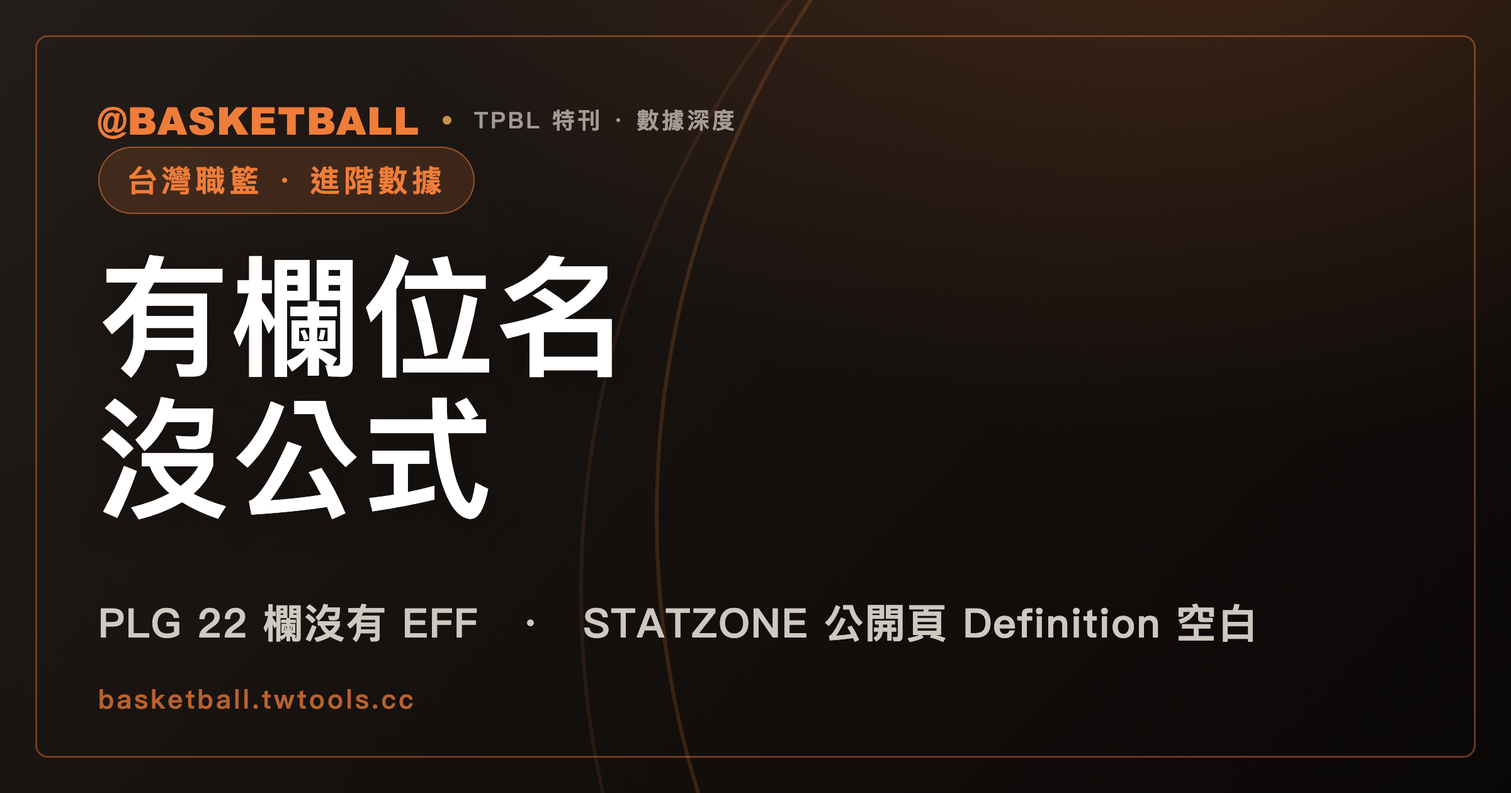
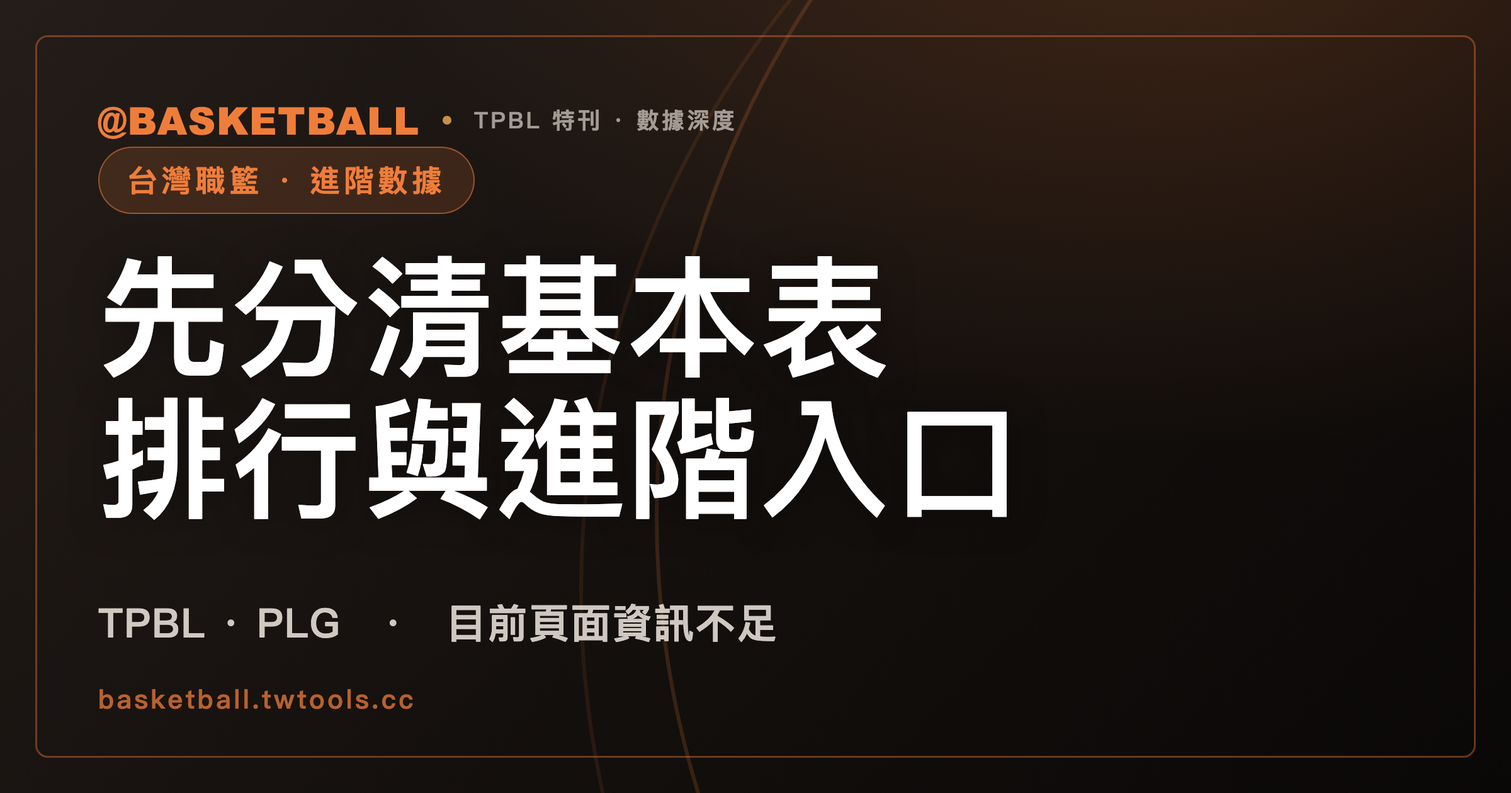
Rewrite Taiwan basketball data and Asian Games guides

Changed region(s): [[0.0625, 0.3095, 0.6875, 0.65], [0.0625, 0.7429, 0.8438, 0.8048]]

diff --git a/scripts/gen-basketball-cover.py b/scripts/gen-basketball-cover.py
@@ -59,8 +59,8 @@ COVERS = [
      "詹姆斯<br>加盟 76 人",
      "第 24 個賽季 · 第 4 支球隊　·　23 季官方數據拆解"),
     ("taiwan-asian-games-2026-basketball", "名古屋亞運 · 台灣男籃",
-     "比開幕式<br>早 9 天開打",
-     "B 組對約旦 · 伊朗 · 卡達　·　12 人名單 · 連兩屆第 4"),
+     "小組 2 勝 1 敗<br>八強止步日本",
+     "名單有傷退遞補　·　賽後回顧"),
     ("tpbl-plg-rules-compared", "台灣職籃 · 規則逐條對照",
      "身分分 2 種<br>還是 4 種",
      "TPBL 對 PLG　·　註冊 · 上場 · 薪資 · 選秀 · 交易"),
@@ -142,8 +142,8 @@ COVERS = [
      "甲乙級<br>只能選一邊",
      "資格賽未晉級　·　當學年不能改報乙級"),
     ("tpbl-plg-stats-glossary-basics", "台灣職籃 · 進階數據",
-     "有欄位名<br>沒公式",
-     "PLG 22 欄沒有 EFF　·　STATZONE 公開頁 Definition 空白"),
+     "先分清基本表<br>排行與進階入口",
+     "TPBL · PLG　·　目前頁面資訊不足"),
     ("waiver-buyout-basics", "NBA · 棄約與買斷",
      "CBA 全文<br>查不到 buyout",
      "認領順序看戰績墊底　·　不是先搶先贏"),

diff --git a/articles/taiwan-asian-games-2026-basketball/index.md b/articles/taiwan-asian-games-2026-basketball/index.md
@@ -6,179 +6,84 @@ topic_ref: "manual"
 topic2: tw-pro
 type: "feature"
 date: "2026-08-10"
-title: "台灣男籃 9 月 10 日開打，比亞運開幕式早 9 天：2026 名古屋亞運前瞻"
-subtitle: "台灣與伊朗、約旦、卡達同在 B 組，首戰約旦，12 人名單由陳盈駿、林庭謙、劉錚與高柏鎧等人組成"
-lede: "截至 2026 年 8 月 10 日，台灣男籃已確定在名古屋亞運 B 組迎戰約旦、伊朗與卡達。首戰是 9 月 10 日台灣時間中午 12 時，比開幕式早 9 天。運動部公布的 12 人名單由陳盈駿、林庭謙、劉錚與高柏鎧等人組成。"
+title: "小組 2 勝 1 敗進八強、八強止步日本：2026 名古屋亞運台灣男籃回顧"
+subtitle: "從 9 月 10 日開打的 B 組賽程，到最終名單傷兵異動與 8 強對日本的淘汰戰，整理這次賽會已經發生的結果。"
+lede: "2026 愛知・名古屋亞運男子 5 對 5 籃球，台灣在 B 組先後對約旦、伊朗與卡達取得 2 勝 1 敗，晉級八強；大會其後確認八強對手為日本，台灣最終止步八強。原先的賽前前瞻已過時，本文改以實際賽程、最終名單異動與已完成的比賽結果為主。"
 ---
 
-# 台灣男籃 9 月 10 日開打，比亞運開幕式早 9 天：2026 名古屋亞運前瞻
+# 小組 2 勝 1 敗進八強、八強止步日本：2026 名古屋亞運台灣男籃回顧
 
-**名古屋亞運 · 台灣男籃｜B 組賽程 · 12 人名單｜亞洲盃第 5 · 連兩屆第 4**
+**名古屋亞運・台灣男籃｜賽後整理**
 
-中華代表團最早出賽的，不是田徑，也不是游泳。
+這不是一篇賽前前瞻。2026 名古屋亞運男子 5 對 5 籃球已在 9 月結束，台灣男籃從 B 組出發，先以 2 勝 1 敗晉級八強，再於八強賽遭日本淘汰。原稿中的「即將開打」「12 人名單已定」與賽前推估，都不再適合留在已完成賽事的文章裡。
 
-是男籃。
+本文只整理可回頭核對的比賽路徑：大會公布的分組與賽程、最終名單的傷兵遞補、分組階段的比分，以及八強對手。不替已結束的賽事補上未由本文來源確認的球員評價或最終總排名。
 
-2026 年愛知・名古屋亞運在 9 月 19 日開幕。台灣男籃卻要在 9 月 10 日就上場。球隊打完 B 組全部 3 場比賽時，開幕式還要再等 6 天。
+## 男籃在開幕式前開打：B 組 3 場比賽排在 4 天內
 
-男籃也是整屆賽會最早開賽的項目。比開幕式早 9 天，不只是行事曆上的特殊安排。這代表台灣代表團的第一個比賽結果，會從籃球場出現。
+愛知・名古屋亞運的男子 5 對 5 籃球先於 9 月 10 日開賽。大會公布的分組中，台灣與伊朗、約旦、卡達同在 B 組；台灣的分組賽依序是 9 月 10 日對約旦、9 月 12 日對伊朗、9 月 13 日對卡達。
 
-首戰對手是上屆銀牌約旦。第 2 場碰到 2025 年亞洲盃淘汰台灣的伊朗。第 3 場則是卡達。3 場比賽全排在 4 天之內。
+這個時間表有一個容易被忽略的地方：男子籃球分組賽在 9 月 19 日開幕典禮之前已經展開。對球隊而言，這表示備戰與淘汰賽判斷不必等到典禮後才開始；對讀者而言，則應避免把「亞運開幕」誤當成所有項目共同的開賽日。
 
-賽程很早。比賽很密。12 人名單則已經先定下來。
+| 階段 | 日期 | 對手 | 結果 |
+|---|---:|---|---|
+| B 組 | 9 月 10 日 | 約旦 | 83：80 勝 |
+| B 組 | 9 月 12 日 | 伊朗 | 69：72 負 |
+| B 組 | 9 月 13 日 | 卡達 | 91：69 勝 |
 
-## 台灣男籃在開幕式前 9 天打響全賽會第一戰
+台灣以 2 勝 1 敗完成分組賽並晉級八強，也讓原本「小組賽打完會遇到誰」的賽前問題有了明確答案。不同來源對 B 組名次排序的呈現不一致，本文不把次級媒體的排序當成大會最終排名依據。
 
-第 20 屆亞洲運動會由日本愛知縣與名古屋市主辦，正式會期是 2026 年 9 月 19 日到 10 月 4 日。賽會共有 43 種運動、71 個分項與 469 個小項。
+## 大會確認八強對手是日本，台灣止步八強
 
-這屆賽會的正式英文名稱是「20th Asian Games Aichi-Nagoya 2026」。從 9 月 19 日開幕到 10 月 4 日閉幕，共有 16 天。男籃的起點卻不在這 16 天裡，而是在正式會期之前。
+9 月 14 日，大會公布男子籃球最終階段對戰表，將「Chinese Taipei」與日本排在 9 月 16 日的 QF2。這份公告同時列出 B 組前 3 名為伊朗、約旦、台灣，反映了大會在淘汰賽對戰表定案時採用的分組排序。
 
-5 人制男籃不等開幕。男子賽事從 9 月 10 日打到 9 月 20 日，場地是名古屋市北區的愛知國際競技場，也就是冠名後的 IG Arena。女子賽事則從 9 月 17 日打到 9 月 26 日。
+台灣在八強賽不敵日本，賽事到此結束。對本篇而言，最重要的不是把賽前期待改寫成事後評語，而是把賽程上的兩件事分開：小組 2 勝 1 敗確實完成晉級；八強賽失利則使球隊未進四強。這兩句都可由已完成的賽程與淘汰賽對戰脈絡核對。
 
-台灣男籃 9 月 10 日中午 12 時出賽。自由體育 8 月 8 日的報導指出，男籃預賽是所有項目最早開始的比賽。時間表因此出現少見的畫面：男籃小組賽已經打完，亞運才準備舉行開幕式。
+由於大會公開結果平台採用動態頁面，本文不自行推導未在此處逐項核對的最終名次或全隊進階統計。需要逐場技術統計時，應回到[大會結果平台](https://results.asiangames2026.org/)查詢，而不是以賽前名單或分組排名代替。
 
-本文時間全部採台灣時間。日本時間比台灣快 1 小時。也就是說，台灣中午 12 時開打的比賽，在日本當地是下午 1 時。
+## 名單在開賽前仍有異動：劉錚、阿巴西退出，陳冠全、譚傑龍遞補
 
-## 台灣在 B 組的 3 場比賽集中於 4 天內完成
+賽前公布的 12 人名單不是最終版本。中華民國籃球協會在 9 月 2 日公布，劉錚與阿巴西因傷退出，由陳冠全、譚傑龍遞補。這也是舊稿必須重寫的原因：把 7 月名單直接當成實際出賽陣容，會漏掉兩名遞補球員，也會錯把兩名傷退球員留在最終名單。
 
-台灣與約旦、伊朗、卡達同在 B 組。3 場小組賽集中在 9 月 10 日到 9 月 13 日之間，中間只有 9 月 11 日沒有比賽。
+依當時公布內容，球隊由總教練圖齊（Gianluca Tucci）領軍，名單包含陳盈駿、林庭謙、游艾喆、高柏鎧、馬建豪、雷蒙恩、胡瓏貿、盧峻翔、曾祥鈞、李家慷，以及遞補的陳冠全與譚傑龍。
 
-| 場次 | 對手 | 日期 | 台灣時間 |
-|---|---|---|---|
-| 第 1 場 | 約旦 | 9 月 10 日（四） | 12：00 |
-| 第 2 場 | 伊朗 | 9 月 12 日 | 09：00 |
-| 第 3 場 | 卡達 | 9 月 13 日 | 12：00 |
+名單異動也提醒了一個寫賽事前瞻的基本原則：官方先公布的培訓或選拔名單，不等於最終報名名單；即使接近開賽，傷勢與遞補仍可能改變實際陣容。賽後回顧應以最後一次正式公告為準，不能只保留最早一版。
 
-男籃共 12 隊分 3 組。A 組是日本、南韓、沙烏地阿拉伯、印尼；C 組是中國、菲律賓、巴林、哈薩克。小組賽後的晉級規則還沒有見到官方明文，台灣打完 3 場之後會遇到誰，現在還排不出來。
+## 讀這屆結果時，別把不同階段混成一句話
 
-賽程本身已經足夠具體。台灣先打上屆亞運銀牌約旦。休兵 1 天後，早上 9 時迎戰伊朗。再隔不到 1 天，對卡達完成小組賽。
+分組賽、八強賽與最終名次是不同層次的資訊。以這屆台灣男籃為例：
 
-3 個對手的 2026 亞運名單，截至 8 月 10 日都未見報導。哪一隊會帶最強陣容，現在沒有答案。已經發生的是：約旦的上屆銀牌、伊朗對台灣的 3 分勝差、卡達的亞洲盃名次。
+| 問題 | 可以確認的回答 | 不能從中直接推出的事 |
+|---|---|---|
+| 分組賽打得如何？ | B 組 2 勝 1 敗、晉級八強 | 整屆賽會的最終名次與未交叉核對的分組排序 |
+| 是否進八強？ | 是，八強對日本 | 是否等同突破歷屆最佳成績 |
+| 八強賽結果？ | 不敵日本、未進四強 | 單靠比分判定所有戰術或球員責任 |
+| 最後名單是否和 7 月公告相同？ | 不同，有 2 人傷退、2 人遞補 | 傷退者的狀況可由本文推論到其他賽事 |
 
-## 約旦上屆摘銀，伊朗在 2025 年亞洲盃淘汰台灣
-
-約旦在 2023 年杭州亞運首度打進男籃決賽，最後以 60：70 不敵菲律賓，拿到銀牌。當屆約旦陣容有具 NBA 資歷的霍林斯傑佛森，也有 3 名身高 210 公分以上的長人。到了 2025 年亞洲盃，約旦排名第 11。
-
-台灣對約旦還有更近的亞運記憶。2023 年四強戰，台灣守不住約旦的歸化球員，輸球後落入銅牌戰。名古屋的第一場，不是面對一個只存在於歷史名次裡的對手，而是再次碰上上屆擋住台灣進決賽的球隊。
-
-伊朗帶來另一種近期壓力。2025 年亞洲盃八強，台灣上半場一度領先 21 分，最終仍以 75：78 遭逆轉。伊朗靠這場勝利晉級四強。名古屋小組賽的第 2 場，就是兩隊在那場 3 分差比賽後的下一個已知大賽交手。
-
-卡達在 2025 年亞洲盃排名第 13，台灣是第 5。同一屆賽事裡，台灣的名次在 3 個小組對手中排在約旦與卡達之前。
-
-3 場對手因此各有一個已知座標。約旦代表上屆亞運的淘汰經驗。伊朗代表最近一屆亞洲盃的逆轉。卡達則有同一屆亞洲盃的名次可供對照。這些座標足以說明小組賽不缺壓力，卻不足以替 4 天內的 3 場比賽預寫結局。
-
-## 運動部公布的 12 人名單從 18 人培訓陣容縮減而來
-
-運動部在 7 月 14 日公布男籃 12 人名單。總教練是義大利籍的圖齊（Gianluca Tucci），教練團成員還有盧譽誠（教練）、黃冠為（體能教練）與柯煥為（隊職員）。
-
-| 名單 | 球員 |
-|---|---|
-| 1 | 陳盈駿 |
-| 2 | 林庭謙 |
-| 3 | 游艾喆 |
-| 4 | 劉錚 |
-| 5 | 阿巴西 |
-| 6 | 盧峻翔 |
-| 7 | 李家慷 |
-| 8 | 雷蒙恩 |
-| 9 | 馬建豪 |
-| 10 | 胡瓏貿 |
-| 11 | 高柏鎧（Brandon Gilbeck） |
-| 12 | 曾祥鈞 |
-
-| 教練團職務 | 姓名 |
-|---|---|
-| 總教練 | 圖齊（Gianluca Tucci） |
-| 教練 | 盧譽誠 |
-| 體能教練 | 黃冠為 |
-| 隊職員 | 柯煥為 |
-
-6 月中旬公布的培訓名單原有 18 人。高錦瑋、陳冠全、周桂羽、譚傑龍、宋昕澔與歸化球員阿提諾沒有進入最後 12 人。兩名歸化球員候選，最後留下高柏鎧。
-
-高柏鎧是 213 公分中鋒，效力 TPBL 福爾摩沙夢想家。他在 2024 年下半年完成歸化，11 月獲 FIBA 認可代表台灣參加國際賽，並在同月對香港的亞洲盃資格賽完成國家隊首秀。媒體報導稱他為台灣隊史第 4 位歸化球員。
-
-高柏鎧的中文名在 2024 年 7 月啟動歸化時公布，「鎧」字寄託的是成為中華隊鎧甲的期待。
-
-圖齊從 2024 年 11 月亞洲盃資格賽一路帶隊，經過 2025 年亞洲盃，再走到 2026 年亞運。這份 12 人名單因此不是換了教練後重新開始，而是延續最近一段國家隊賽程的人員選擇。
-
-截至 2026 年 8 月 10 日，12 人裡沒有任何傷停報導；名單到開賽前仍可能因傷調整。
-
-林庭謙與劉錚近期的球員動向，集中整理於〈[領航猿選了吳志鍇，他卻加盟戰神：2026 台灣職籃休賽季異動總表](/articles/taiwan-hoops-2026-offseason-moves/)〉。兩人都在 2026 年的 12 人名單裡，也都打過 2023 年杭州亞運銅牌戰。
-
-## 台灣帶著 2025 年亞洲盃第 5 名進入名古屋
-
-2025 年 FIBA 亞洲盃，台灣在小組賽先以 95：87 擊敗菲律賓，再以 87：60 擊敗伊拉克。對伊拉克一戰，全隊三分球 37 投 15 中。台灣睽違 12 年重返亞洲盃 8 強。
-
-八強戰對伊朗，台灣上半場曾領先 21 分。終場卻是 75：78。3 分差讓台灣止步八強，最後排名第 5。這是台灣自 2013 年亞錦賽第 4 名後的最佳成績。
-
-第 5 名提供的是現況基礎，不是亞運保證。台灣在亞洲盃贏過菲律賓與伊拉克，也曾把伊朗逼到最後 3 分。另一方面，B 組首戰約旦在同屆亞洲盃排名第 11，卡達排名第 13。
-
-對伊朗那一場，從領先 21 分到輸 3 分，留下的提醒很具體：一段優勢不等於最後結果。名古屋的 B 組，兩隊會再碰一次。
-
-國家隊名單之外，台灣兩個職籃聯盟的並立背景可讀〈[為什麼台灣有兩個職籃聯盟？](/articles/taiwan-hoops-two-leagues/)〉。TPBL 與 P. LEAGUE+ 的制度逐項比較，另見〈[TPBL 把球員分成 2 種身分，P. LEAGUE+ 分成 4 種](/articles/tpbl-plg-rules-compared/)〉。
-
-## 亞運不保證各國都派出最強陣容
-
-亞運籃球有一個容易被忽略的前提：參賽國可以派職業球員，但各國不一定能帶來所有最強人選。
-
-依 NBA 在 2018 年的公開說明，它與 FIBA 的協議允許 NBA 球員參加奧運、FIBA 世界盃、洲際盃，以及這些賽事的資格賽。亞運不在協議涵蓋範圍內。限制的核心是 NBA 是否放行球員，不是亞運禁止職業球員參賽。
-
-2018 年亞運已經出現過具體案例。NBA 起初不放行球員，後來在美國時間 8 月 14 日給出一次性特例，讓菲律賓 1 名、中國 2 名 NBA 球員參賽。一次性特例的存在，也說明亞運不在一般協議的固定範圍內。
-
-亞運場上可以有職業球員，日本 2026 年公布的男子 5 人制名單，12 人中 11 人來自職業聯賽。卡住的只有一件事：NBA 放不放人。
-
-2023 年杭州亞運，菲律賓帶著媒體所稱「集訓 12 天」的陣容出賽。隊上沒有世界盃的歸化主力克拉克森（Jordan Clarkson），但仍有法哈多（June Mar Fajardo）、湯普森（Scottie Thompson）等 4 名世界盃成員。這支陣容最後在決賽擊敗約旦，菲律賓自 1962 年後再度奪金，拿下隊史第 5 冠。歸化球員布朗里（Justin Brownlee）場均得到約 24 分。
-
-自由體育 2023 年報導將日本陣容稱為年輕陣，12 人只有 1 人打過當年的世界盃。到了 2026 年，日本籃協公布的男籃陣容 12 人中 11 人來自職業聯賽，平均年齡約 25 歲。中國媒體稱日本男女籃派「二隊」參加亞運；日本籃協的公告裡只有名單與年齡，「二隊」這兩個字是媒體加上去的。
-
-這些前例把亞運的競爭結構說得很清楚。世界盃名單、亞洲盃名次與亞運名單，不能直接畫上等號。陣容準備時間短，不代表一定失去競爭力。帶來年輕陣容，也不等於自動退出獎牌競爭。
-
-對台灣而言，機會與風險來自同一個地方：對手可能不是最強陣容，也可能是。伊朗、約旦與卡達會帶誰來，8 月中旬還沒有答案。
-
-## 台灣在 2018 年與 2023 年連續兩屆拿到第 4 名
-
-台灣男籃最近兩屆亞運都停在第 4 名。
-
-2018 年雅加達亞運，台灣排名第 4。2023 年杭州亞運，台灣又一次進入四強。四強賽輸給約旦後，銅牌戰以 73：101 不敵中國。
-
-杭州銅牌戰的比分沒有完整呈現比賽轉折。台灣上半場以 49：46 領先。第 3 節卻被中國打出 19：2 的攻勢，局面就此改變。林庭謙得到 20 分，劉錚得到 14 分。兩人都在 2026 年名古屋亞運 12 人名單內。
-
-同一份名單裡的延續不只在兩個名字。2026 年的總教練圖齊已經帶隊打過 2025 年亞洲盃，12 人陣容也從 18 人培訓名單縮減完成。名古屋的問題不是台灣能不能第一次摸到四強門口，而是能不能把最近兩屆都到過的位置，往獎牌台再推進一步。
-
-這也讓 B 組首戰更有歷史重量。約旦不只是上屆銀牌，也是 2023 年四強戰擊敗台灣的球隊。台灣要先從同一個對手開始，再決定能不能走到不同的位置。
-
-## 台灣 3x3 男籃帶著杭州金牌前往名古屋衛冕
-
-5 人制男籃連兩屆第 4，台灣籃球目前握有的亞運金牌來自 3x3 男籃。
-
-台灣在杭州亞運拿下 3x3 男子組金牌。名古屋亞運由葉惟捷、張俊生、徐堂琪與鄒子羲出賽，目標是衛冕。3x3 賽事從 9 月 21 日打到 9 月 25 日，場地設在名古屋金城埠頭站前特設球場。
-
-中華女籃 12 人名單也已公布，由彭詩晴領軍，總教練是前田顯藏。女籃分在 C 組，將依序在 9 月 18 日對蒙古、9 月 21 日對馬來西亞、9 月 22 日對南韓。女子 3x3 則由張聿敏、游沁樺、蔡佑蓮與陳薇涵參賽。
-
-男籃是中華代表團最早登場的項目。3x3 男籃則帶著上屆金牌壓軸接棒。從 9 月 10 日到 9 月 25 日，台灣籃球會在開幕式之前先開始，也會在開幕式之後繼續守住另一條衛冕路線。
+把這些句子拆開，能避免「打進八強」被誤讀成「最終第八」，也能避免把賽前名單誤稱為最後陣容。這是整理已結束賽會最容易出現、也最容易避免的兩種錯誤。
 
 ## 常見問題
 
-### 台灣男籃在 2026 名古屋亞運什麼時候出賽？
+### 2026 名古屋亞運台灣男籃在分組賽的成績是什麼？
 
-台灣男籃在 9 月 10 日、9 月 12 日與 9 月 13 日進行 B 組小組賽。3 場均為台灣時間，依序是 9 月 10 日 12：00 對約旦、9 月 12 日 09：00 對伊朗、9 月 13 日 12：00 對卡達。日本時間比台灣快 1 小時。
+台灣在 B 組對約旦、伊朗、卡達取得 2 勝 1 敗：83：80 勝約旦、69：72 負伊朗、91：69 勝卡達，並晉級八強。本文不把未與大會結果頁逐項交叉核對的媒體分組排序，寫成最終官方名次。
 
-### 為什麼台灣男籃比亞運開幕式更早出賽？
+### 台灣男籃八強賽的對手是誰？
 
-2026 名古屋亞運開幕式在 9 月 19 日，5 人制男籃賽事則從 9 月 10 日開始。男籃是整屆賽會最早開賽的項目，因此台灣代表團會先由男籃出賽，比開幕式早 9 天。
+大會 9 月 14 日公布的男子籃球最終階段對戰表，安排台灣在 9 月 16 日的 QF2 對日本。台灣該戰失利，未能晉級四強。
 
-### 台灣男籃的 12 人名單有哪些球員？
+### 為什麼本文的名單和 7 月公告不同？
 
-12 人是陳盈駿、林庭謙、游艾喆、劉錚、阿巴西、盧峻翔、李家慷、雷蒙恩、馬建豪、胡瓏貿、高柏鎧（Brandon Gilbeck）與曾祥鈞。總教練為圖齊（Gianluca Tucci），教練團成員還有盧譽誠、黃冠為與柯煥為。
+因為劉錚與阿巴西在開賽前因傷退出，中華民國籃球協會於 9 月 2 日公布由陳冠全、譚傑龍遞補。本文採最後公布的異動資訊，不沿用較早的賽前名單。
 
-### 12 人名單選入哪一位歸化球員？
+### 台灣最後拿到第幾名？
 
-18 人培訓名單原有兩名歸化球員候選，正式 12 人名單最後選入高柏鎧（Brandon Gilbeck）。高柏鎧是 213 公分中鋒，效力 TPBL 福爾摩沙夢想家。
+本文不把「八強止步」改寫成未經本文逐項核對的最終名次。若要查完整名次、逐場技術統計或獎牌戰結果，應直接使用愛知・名古屋亞運大會結果平台。
 
-### 亞運男籃是否禁止職業球員參賽？
+## 資料來源
 
-不是。亞運沒有禁止職業球員。依 NBA 在 2018 年的公開說明，它與 FIBA 的協議涵蓋奧運、FIBA 世界盃、洲際盃及相關資格賽，但不涵蓋亞運。2018 年 NBA 曾以一次性特例放行 3 名球員參加亞運。
-
-### 台灣男籃最近兩屆亞運拿到第幾名？
-
-台灣男籃在 2018 年雅加達亞運與 2023 年杭州亞運都是第 4 名。2023 年台灣在四強賽不敵約旦，銅牌戰再以 73：101 不敵中國。
+- [愛知・名古屋亞運大會：男子籃球分組與對戰表](https://www.aichi-nagoya2026.org/news-2054/)（2026-09-14 公布）
+- [愛知・名古屋亞運大會：男子與女子籃球分組及賽程](https://www.aichi-nagoya2026.org/news-2005/)（2026-08-07 公布）
+- [愛知・名古屋亞運結果平台](https://results.asiangames2026.org/)（逐場結果查詢入口）
+- [中央社：名古屋亞運男籃最終名單異動](https://www.cna.com.tw/news/aspt/202609020338.aspx)（轉載中華民國籃球協會 2026-09-02 公布）
+- [TVBS：分組賽比分與晉級八強整理](https://news.tvbs.com.tw/sports/4020710)（2026-09-16 查核）

diff --git a/articles/tpbl-plg-stats-glossary-basics/index.md b/articles/tpbl-plg-stats-glossary-basics/index.md
@@ -4,96 +4,81 @@ competition: tpbl
 topic: tw-pro
 type: "feature"
 date: "2026-09-28"
-title: "官方頁面看得到 EFF、+/-，公式卻要去另一個網站找：TPBL、PLG 數據頁怎麼看"
-subtitle: "TPBL 排序選單把 EFF、+/- 列為正式欄位，PLG 官方表格目前沒有這兩欄；點進官方導去的外部平台，Glossary 頁雖然收了 EFF 詞條，Definition 與 Formula 卻都是空白。"
-lede: "截至 2026 年 9 月 28 日抓取的頁面版本，TPBL 官方球員數據頁的排序選單裡看得到「EFF」「+/-」兩個欄位名稱，PLG 官方主站的表格卻沒有這兩欄；PLG 頁面上「進階數據」按鈕真正打開的，是另一個網站的入口，那個網站的 Glossary 頁雖然收了 EFF 詞條，Definition 與 Formula 兩欄卻都是空白。"
+title: "TPBL、PLG 官方數據頁怎麼看？先分清基本表、排行與外部進階資料"
+subtitle: "同樣叫數據，兩個聯盟公開頁提供的入口和欄位並不相同；先確認頁面實際列了什麼，再判讀數字。"
+lede: "截至 2026 年 10 月 30 日，TPBL 官方球員數據頁可選 2026-27 賽季與一般數據、得分、場均數據等篩選，但公開頁面回傳沒有資料；PLG 的公開球員表則已列出出賽、上場時間、得分、投籃、籃板、助攻、阻攻、抄截、失誤與犯規等基本欄位。兩邊都各有數據入口，但不能把不同頁面的欄位或產品功能當成同一套統計表。"
 topic_ref: "manual"
 ---
 
-# 官方頁面看得到 EFF、+/-，公式卻要去另一個網站找：TPBL、PLG 數據頁怎麼看
+# TPBL、PLG 官方數據頁怎麼看？先分清基本表、排行與外部進階資料
 
-**新手村｜台灣職籃・進階數據要去哪查**
+**新手村｜台灣職籃・從官方公開頁讀數據**
 
-看熟了 NBA 的 box score，再打開 TPBL 或 PLG 的官方數據頁，會發現兩個熟悉的名字：EFF、+/-。這兩個欄位名稱確實出現在官方頁面上，但「這個數字怎麼算出來」這件事，兩個聯盟目前都沒有攤在讀者看得到的官方頁面上。想知道公式，得自己點開官方網站底下藏著的另一份資料，而且點開之後，看到的公式文字跟官方公開頁面上寫的，還對不太起來。
+看到「球員數據」四個字，不代表兩個聯盟會用同一張表、同一組欄位，或在同一時間提供相同深度的資料。讀 TPBL、P. LEAGUE+（PLG）官方頁面時，第一步不是急著找一個指標的公式，而是先確認：你開的是球員表、排行頁、球隊表，還是另一個外部資料產品？
 
-這篇文章拿 TPBL、PLG 官方數據頁截至 2026 年 9 月 28 日的頁面版本當例子，拆解 EFF、+/- 這兩個名字從哪裡出現、又在哪裡斷線。讀完之後，你應該能自己在任何一個聯盟的數據頁上，分辨「這個欄位名稱是官方承認的」跟「這個欄位的算法官方有沒有公開講清楚」是兩件不同的事。
+這篇只處理讀者公開可見的入口與欄位。它不替聯盟補定義，也不把頁面程式裡未以讀者介面公開的字串，當成一項已公告的統計公式。
 
-## TPBL 排序選單有 EFF、+/-，但目前沒有資料可以核對
+## TPBL：先選資料類型與賽季，再確認頁面是否已有可讀的列
 
-TPBL 官方球員數據頁（`tpbl.basketball/stats/players`）的排序欄位選單裡，「EFF」對應的內部值是 `efficiency`，「+/-」對應的內部值是 `plus_minus`。這兩個選項跟「得分」「籃板」這些基本欄位排在同一份選單裡——換句話說，在 TPBL 2025-26 賽季頁面版本上，EFF 與 +/- 是頁面自己承認的正式統計欄位名稱，不是外部媒體自己加上去的稱呼。
+TPBL 官方的「比賽數據」區有球員數據、球隊數據、數據排行、特殊表現與歷史紀錄等入口。球員數據頁可搜尋球員，並可選 2026-27 賽季；公開頁面還列出「一般數據」「得分」「場均數據」等選項。
 
-但截至 2026 年 9 月 28 日晚間抓取的頁面版本，頁面預設選在「2025-26 賽季」，整份表格目前顯示「篩選下沒有任何資料」。也就是說，EFF、+/- 這兩欄在有球員數據時實際會排出什麼順序、顯示什麼數字，本次查到的頁面版本看不到。頁面同時也保留「2024-25 賽季」這個選項，但這篇文章只處理本次抓到的頁面狀態，不去談那個選項切換後會出現什麼。
+不過，截至本文查核日，這個公開頁面回傳「篩選下沒有任何資料」。這不等於聯盟沒有記錄比賽，而是這個讀取時點的公開頁面沒有提供可直接逐列核對的球員表。因此，遇到空表時最穩妥的寫法是記下頁面的資料類型與查核日，不從空白表推論球員排行、場均或進階指標。
 
-這一點值得先記住：欄位名稱已經確認存在，但「這個名稱底下有沒有可查的數字」，是另一件要分開確認的事，後面 PLG 那邊會看到同一個分界線用不同方式出現一次。
+TPBL 的球隊數據頁同樣保留賽季、勝率與場均數據等篩選入口，查核時也顯示沒有資料。若之後頁面出現資料列，讀法仍應先看清楚篩選的是哪一季、哪一類數據，以及數字是總計還是場均。
 
-## PLG 官方頁面的表格目前只有 22 欄「基本數據」，EFF、+/- 都不在裡面
+## PLG：公開球員表先給基本欄位，數據排行則把類別拆開
 
-PLG 官方球員數據頁（`pleagueofficial.com/stat-player/2025-26`）目前渲染出來的表格，從「出賽」一路排到「失誤」「犯規」，總共 22 欄，全部標成 `class="regular"`（基本數據）。這 22 欄裡沒有 EFF，也沒有 +/-。
+PLG 的 2026-27 球員數據公開頁已經有資料列。表頭依序能讀到出賽（GP）、時間（MIN）、得分（PTS）、二分與三分命中／出手／命中率、罰球命中／出手／命中率、籃板（REB）、進攻籃板（OREB）、防守籃板（DREB）、助攻（AST）、阻攻（BLK）、抄截（STL）、失誤（TO）與犯規（PF）。
 
-頁面上另外有一顆「基本數據／進階數據」切換鈕，對應的 JavaScript 函式 `toggleBoxscore()` 邏輯，會嘗試把標成 `class="advanced"` 的欄位顯示出來。但整份頁面原始碼裡搜尋 `class="advanced"`，結果是 0 筆——這些「進階欄位」目前根本不在表格的 DOM 結構裡。這顆按鈕實際會切換的，是顯示或隱藏一塊 class 為 `.statzone-wrap` 的宣傳區塊，而不是在原本那張表格裡多長出 EFF、+/- 兩欄。
+這些欄位適合回答「這名球員累積了什麼基本產出」；但它們並不是互相可以單獨比較的分數。例如得分要搭配出賽與時間看，命中率至少要連同出手量看，籃板也可先拆成進攻與防守籃板。只看一個欄位，通常不足以判定球員整體影響力。
 
-那塊宣傳區塊裡放了一顆官方按鈕，連到 `https://statzone.pleagueofficial.com`。也就是說，PLG 官方主站目前把「進階數據」這件事，實質上導流給另一個網站處理，而不是在自家的球員數據表裡直接呈現。
+同一個 PLG 網站的綜合排行頁，則把得分、籃板、助攻等項目分開列成排行。排行頁適合快速找出該項目的當前領先者；若要核對某個人的完整基本數據，再回到球員數據表會比較完整。兩種頁面用途不同，不能把排行頁的單項數字讀成完整球員評價。
 
-## PLG 頁面的「進階數據」按鈕，打開的是另一個網站的入口
+## 「進階數據」是入口名稱，不保證公開頁有同一套欄位
 
-點進 `https://statzone.pleagueofficial.com`，內容其實來自另一個網域 `statzone.preciser.io`。瀏覽器分頁標題以「P. LEAGUE+」結尾，頁面 meta 說明文字寫的是「探索 Preciser 的綜合 P. LEAGUE+ 分析平台」。換句話說，這個頁面把自己定位成「P. LEAGUE+」品牌底下的產品，技術供應商掛名是「Preciser」。
+PLG 導覽把球員數據標為「基本、進階」，而官方導向的 STATZONE 產品頁則寫有即時比分、逐場進階數據與歷年球季紀錄，並區分公開畫面與帳號升級後的完整資料庫。這說明進階資料存在不同的產品層次，但不代表主站公開球員表已完整列出所有進階欄位，也不代表讀者可以從主站基本表反推出外部平台的算法。
 
-這個頁面內嵌了一份多語系翻譯字典，裡面鍵值 `eff` 對應的中文顯示字串是「效率」，鍵值 `plus_minus` 對應的顯示字串是「+/-」。這是目前找到的一個官方（掛名 P. LEAGUE+）來源，直接寫出「EFF 對應中文效率」「plus_minus 對應 +/- 符號」這組對照。
+因此，碰到 EFF、+/- 或其他縮寫時，建議先問三件事：
 
-同一份內嵌資料裡，還藏著一個叫 `advanced_stats_formula` 的字典，裡面 `eff` 這個鍵值對應一段完整的中文公式文字：「效率 = 得分 + 籃板 + 助攻 + 抄截 + 阻攻 - (出手次數 - 二分球得分 - 三分球得分 - 罰球得分) - (失誤次數 + 犯規次數)」。這裡要特別說清楚：**這段文字出現在頁面的內部翻譯／設定資料裡，不是使用者在 Glossary 頁面上實際看得到的「Formula」欄**，一般讀者照正常路徑瀏覽這個網站，並不會看到這段文字被公開列出來。下一節會看到，公開版面上同一個 EFF 詞條的 Formula 欄，其實是空的。
+1. 該縮寫是否真的出現在你正在看的公開表頭或說明頁？
+2. 這個頁面是否同時公開了定義與計算方式？
+3. 該數字是單場、賽季累積還是場均，篩選條件又是什麼？
 
-## STATZONE 官方 Glossary 頁收了 EFF 詞條，但 Definition、Formula 兩欄都是空白
+三題中任何一題沒有答案，就把它當成「目前頁面資訊不足」，而不是用其他聯盟的慣例去補。
 
-PLG STATZONE 公開的 Glossary 頁（`statzone.preciser.io/zh-TW/plg/glossary`）裡，確實有一張「EFF」的詞條卡片，Name 欄寫的是「Efficiency」，Type 欄標示為「Advanced」。但同一張卡片的 Definition 欄和 Formula 欄，兩欄目前都沒有任何文字。
+## 基本表的實用讀法：先把成對欄位放在一起
 
-也就是說，這個掛 P. LEAGUE+ 名字的官方公開頁面，承認 EFF 是一個「進階」統計項目，卻沒有在使用者看得到的地方寫出它的定義或算法——跟上一節找到的、藏在頁面內部資料裡的那段公式文字，是兩處對不上的內容。
+| 想知道什麼 | 至少一起看哪些欄位 | 不應直接推出的結論 |
+|---|---|---|
+| 出手效率 | 二分／三分／罰球的命中、出手與命中率 | 只靠命中率判定效率高低 |
+| 上場負荷 | GP、MIN 與場均或累積標示 | 把累積得分直接當成每場表現 |
+| 籃板來源 | REB、OREB、DREB | 把總籃板視為同一種貢獻 |
+| 控球與組織 | AST、TO，以及實際出賽樣本 | 只靠助攻數判定失誤風險 |
 
-同一個 Glossary 頁的「+/-」詞條，情況不太一樣。Name 欄寫「Plus-Minus」，Definition 欄確實有文字：「The point differential when a player or team is on the floor」（球員或球隊在場上時的分差）。也就是說，+/- 這個詞條比 EFF 完整一點，至少留了中英文都看得懂的白話定義，但 Formula 欄同樣是空的。
-
-## +/- 的官方定義，PLG 跟 NBA 逐字相同；NBA 官方詞彙表裡查不到 EFF
-
-NBA 官方數據詞彙表（`stats.nba.com/stats/help/glossary`）裡，「+/-」詞條的定義文字是「The point differential when a player or team is on the floor」，Formula 欄同樣是空字串，Type 標示「Traditional」。這段英文定義跟前一節 STATZONE 的「+/-」定義，逐字相同。
-
-同一份 NBA 官方詞彙表裡，搜尋 `id` 為 `eff`、`name` 為 `Efficiency`、或顯示文字為 `EFF` 的詞條，結果都是 0 筆。這裡要把話說得精準一點：這只能證明「2026 年 9 月 28 日抓到的這一份 NBA Glossary 頁面沒有 EFF 詞條」，不能反過來推論成「EFF 不是 NBA 正式統計項目」這種更大的結論——這裡只看了詞彙表這一個頁面，沒有核對 NBA 是否在別的頁面定義過 EFF。
-
-站外常把 EFF 叫做「效率值」、把 +/- 叫做「正負值」，這兩個中文說法在 TPBL、PLG 官方頁面本身都沒有出現過，是站外慣用的中文翻譯，不是規則書或官方頁面上的用語，讀到這兩個詞的時候，可以記得它們是慣稱而不是官方定義詞。
-
-## 遇到「有欄位名、沒公式」的頁面，可以怎麼查
-
-把三個聯盟目前的狀態放在一起看，會更清楚「欄位名稱存在」跟「公式公開」是兩回事：
-
-| 聯盟 | 欄位名稱是否列在官方頁面 | Definition 是否公開 | Formula 是否公開 |
-|---|---|---|---|
-| TPBL（`stats/players` 排序選單） | EFF、+/- 都列在選單裡 | 本次抓取看不到（無數據列） | 本次抓取看不到（無數據列） |
-| PLG（STATZONE Glossary 頁） | EFF、+/- 都有詞條卡片 | EFF 空白；+/- 有英文定義 | EFF、+/- 皆空白 |
-| NBA（Stats Glossary 頁） | +/- 有詞條；EFF 這次沒查到 | +/- 有英文定義 | +/- 空白 |
-
-以下是這篇文章的讀法，不是任何聯盟官方規定：下次打開一個陌生的數據頁，看到一個看起來很進階的欄位名稱，可以照這個順序確認三件事——第一，這個名字是不是頁面自己承認的正式欄位（排序選單、表頭都算）；第二，目前的表格裡有沒有對應的數字欄位，還是只是選單裡的一個名字；第三，如果頁面有連到 Glossary 或說明頁，Definition 跟 Formula 兩欄是不是真的填了字，還是卡片存在但欄位空白。三個問題分開問，比較不容易把「有這個名字」誤會成「官方已經講清楚怎麼算」。
-
-技術統計表裡 PTS、FGM、+/- 這些基本欄位怎麼成對讀，本站另一篇文章[投籃 12 次只得 6 分：技術統計表的欄位，要成對讀、拆開讀](/articles/read-box-score/)有處理過，這裡不重複。真實命中率、進攻效率與節奏這類需要額外公式的進階數據，本站也各有一篇[同樣是 40% 命中率，得分效率為什麼可以差很多？從 FG% 讀到 TS%](/articles/true-shooting-basics/)與[假設兩隊場均都是 115 分，每 100 回合得分為什麼差了 10 分？](/articles/offensive-rating-pace-basics/)處理過對應的 NBA 官方公式，這裡同樣不重複。
+同樣的原則也適用於本站的[技術統計表入門](/articles/read-box-score/)。它教的是怎麼讀一張基本 box score；這篇則把焦點放在「先辨認官方頁面現在提供了哪種表」。
 
 ## 常見問題
 
-### TPBL 的官方數據頁真的有 EFF 這個欄位嗎？
+### TPBL 官網現在可以直接查 2026-27 球員排行榜嗎？
 
-有。TPBL 官方球員數據頁（`stats/players`，2025-26 賽季頁面）的排序選單裡，EFF 對應內部值 `efficiency`，跟「得分」「籃板」排在同一份選單裡，是頁面自己承認的正式統計欄位名稱。但截至 2026 年 9 月 28 日抓取的頁面版本，目前沒有任何可顯示的球員數據列，這個欄位排序或顯示時實際長什麼樣子，本次抓取看不到。
+TPBL 官網有球員數據與數據排行入口，球員頁也可選 2026-27 賽季；但截至本文查核日，公開球員頁顯示「篩選下沒有任何資料」。因此本文不列任何 TPBL 2026-27 球員排行，之後應以頁面實際出現的資料列與篩選條件為準。
 
-### PLG 官方數據頁的「進階數據」按鈕，按下去會出現 EFF、+/- 嗎？
+### PLG 的 PTS、REB、AST 是什麼？
 
-不會。截至 2026 年 9 月 28 日抓取的 2025-26 賽季頁面版本，這顆按鈕實際的作用是顯示或隱藏一塊導去外部網站（`statzone.pleagueofficial.com`，掛 P. LEAGUE+ 名字、由 Preciser 提供技術）的宣傳區塊，而不是在原本的 22 欄基本數據表格裡再長出 EFF、+/- 兩欄。
+在 PLG 公開球員表裡，PTS 是得分、REB 是籃板、AST 是助攻。它們都是基本統計欄位；讀取時仍應配合出賽與上場時間，避免把不同樣本量的累積數字直接相互比較。
 
-### STATZONE 頁面裡找到的那段 EFF 公式文字，可以當成官方公布的算法嗎？
+### PLG 網站寫有進階數據，是否代表所有進階公式都公開？
 
-不建議直接這樣用。那段公式文字出現在 PLG STATZONE 頁面內部的多語系設定資料裡，不是 STATZONE 官方 Glossary 頁面上使用者看得到的 Formula 欄——同一個 EFF 詞條在 PLG STATZONE 公開的 Glossary 頁面上，Definition 與 Formula 兩欄（截至 2026 年 9 月 28 日抓取版本）都是空白，兩處內容並不一致。
+不能這樣推論。主站導覽與 STATZONE 產品頁都提到進階資料，但公開球員表和外部產品頁不是同一張表。本文只採公開可見的欄位與產品說明；若某指標沒有在公開頁同時給出定義與公式，就不替它套用其他聯盟的算法。
 
-### NBA 官方詞彙表裡沒有 EFF，是不是代表 EFF 不算正式統計項目？
+### 為什麼本文不直接比較 TPBL 與 PLG 哪個數據比較完整？
 
-不能這樣推論。這裡只確認了「2026 年 9 月 28 日抓取的這份 NBA Stats Glossary 頁面，搜尋不到 EFF 詞條」，沒有核對 NBA 是否在詞彙表以外的其他頁面定義過 EFF，不能從單一頁面查無反推成「EFF 不是 NBA 正式統計項目」這種制度性結論。
+因為兩邊頁面的資料呈現會隨賽季與公開權限變動。本文查核時，PLG 公開球員表已有資料列，TPBL 的公開球員頁則回傳空表；這只能描述當下公開介面的狀態，不能推論哪個聯盟長期一定提供較多資料。
 
 ## 資料來源
 
-- TPBL 官方球員數據頁（tpbl.basketball，2025-26 賽季頁面，2026 年 9 月 28 日 23:09 取得）：[tpbl.basketball/stats/players](https://tpbl.basketball/stats/players)
-- PLG 官方球員數據頁（pleagueofficial.com，2025-26 賽季，2026 年 9 月 28 日 23:12 取得）：[pleagueofficial.com/stat-player/2025-26](https://pleagueofficial.com/stat-player/2025-26)
-- STATZONE 平台頁面（經 statzone.pleagueofficial.com 導向，內容來自 statzone.preciser.io/zh-TW/plg/product-description，2026 年 9 月 28 日 23:14 取得）：[statzone.pleagueofficial.com](https://statzone.pleagueofficial.com)
-- STATZONE 官方 Glossary 頁（statzone.preciser.io，2026 年 9 月 28 日 23:15 取得）：[statzone.preciser.io/zh-TW/plg/glossary](https://statzone.preciser.io/zh-TW/plg/glossary)
-- NBA Stats Glossary（nba.com，2026 年 9 月 28 日 23:17 取得，頁面無版本標記）：[nba.com/glossary](https://www.nba.com/stats/help/glossary)
+- [TPBL 官方球員數據頁](https://tpbl.basketball/stats/players)（2026-10-30 查核）
+- [TPBL 官方球隊數據頁](https://tpbl.basketball/stats/teams)（2026-10-30 查核）
+- [PLG 2026-27 球員數據](https://pleagueofficial.com/stat-player)（2026-10-30 查核）
+- [PLG 2026-27 綜合排行](https://pleagueofficial.com/stat-ranking)（2026-10-30 查核）
+- [PLG STATZONE 產品頁](https://statzone.pleagueofficial.com/)（2026-10-30 查核）
